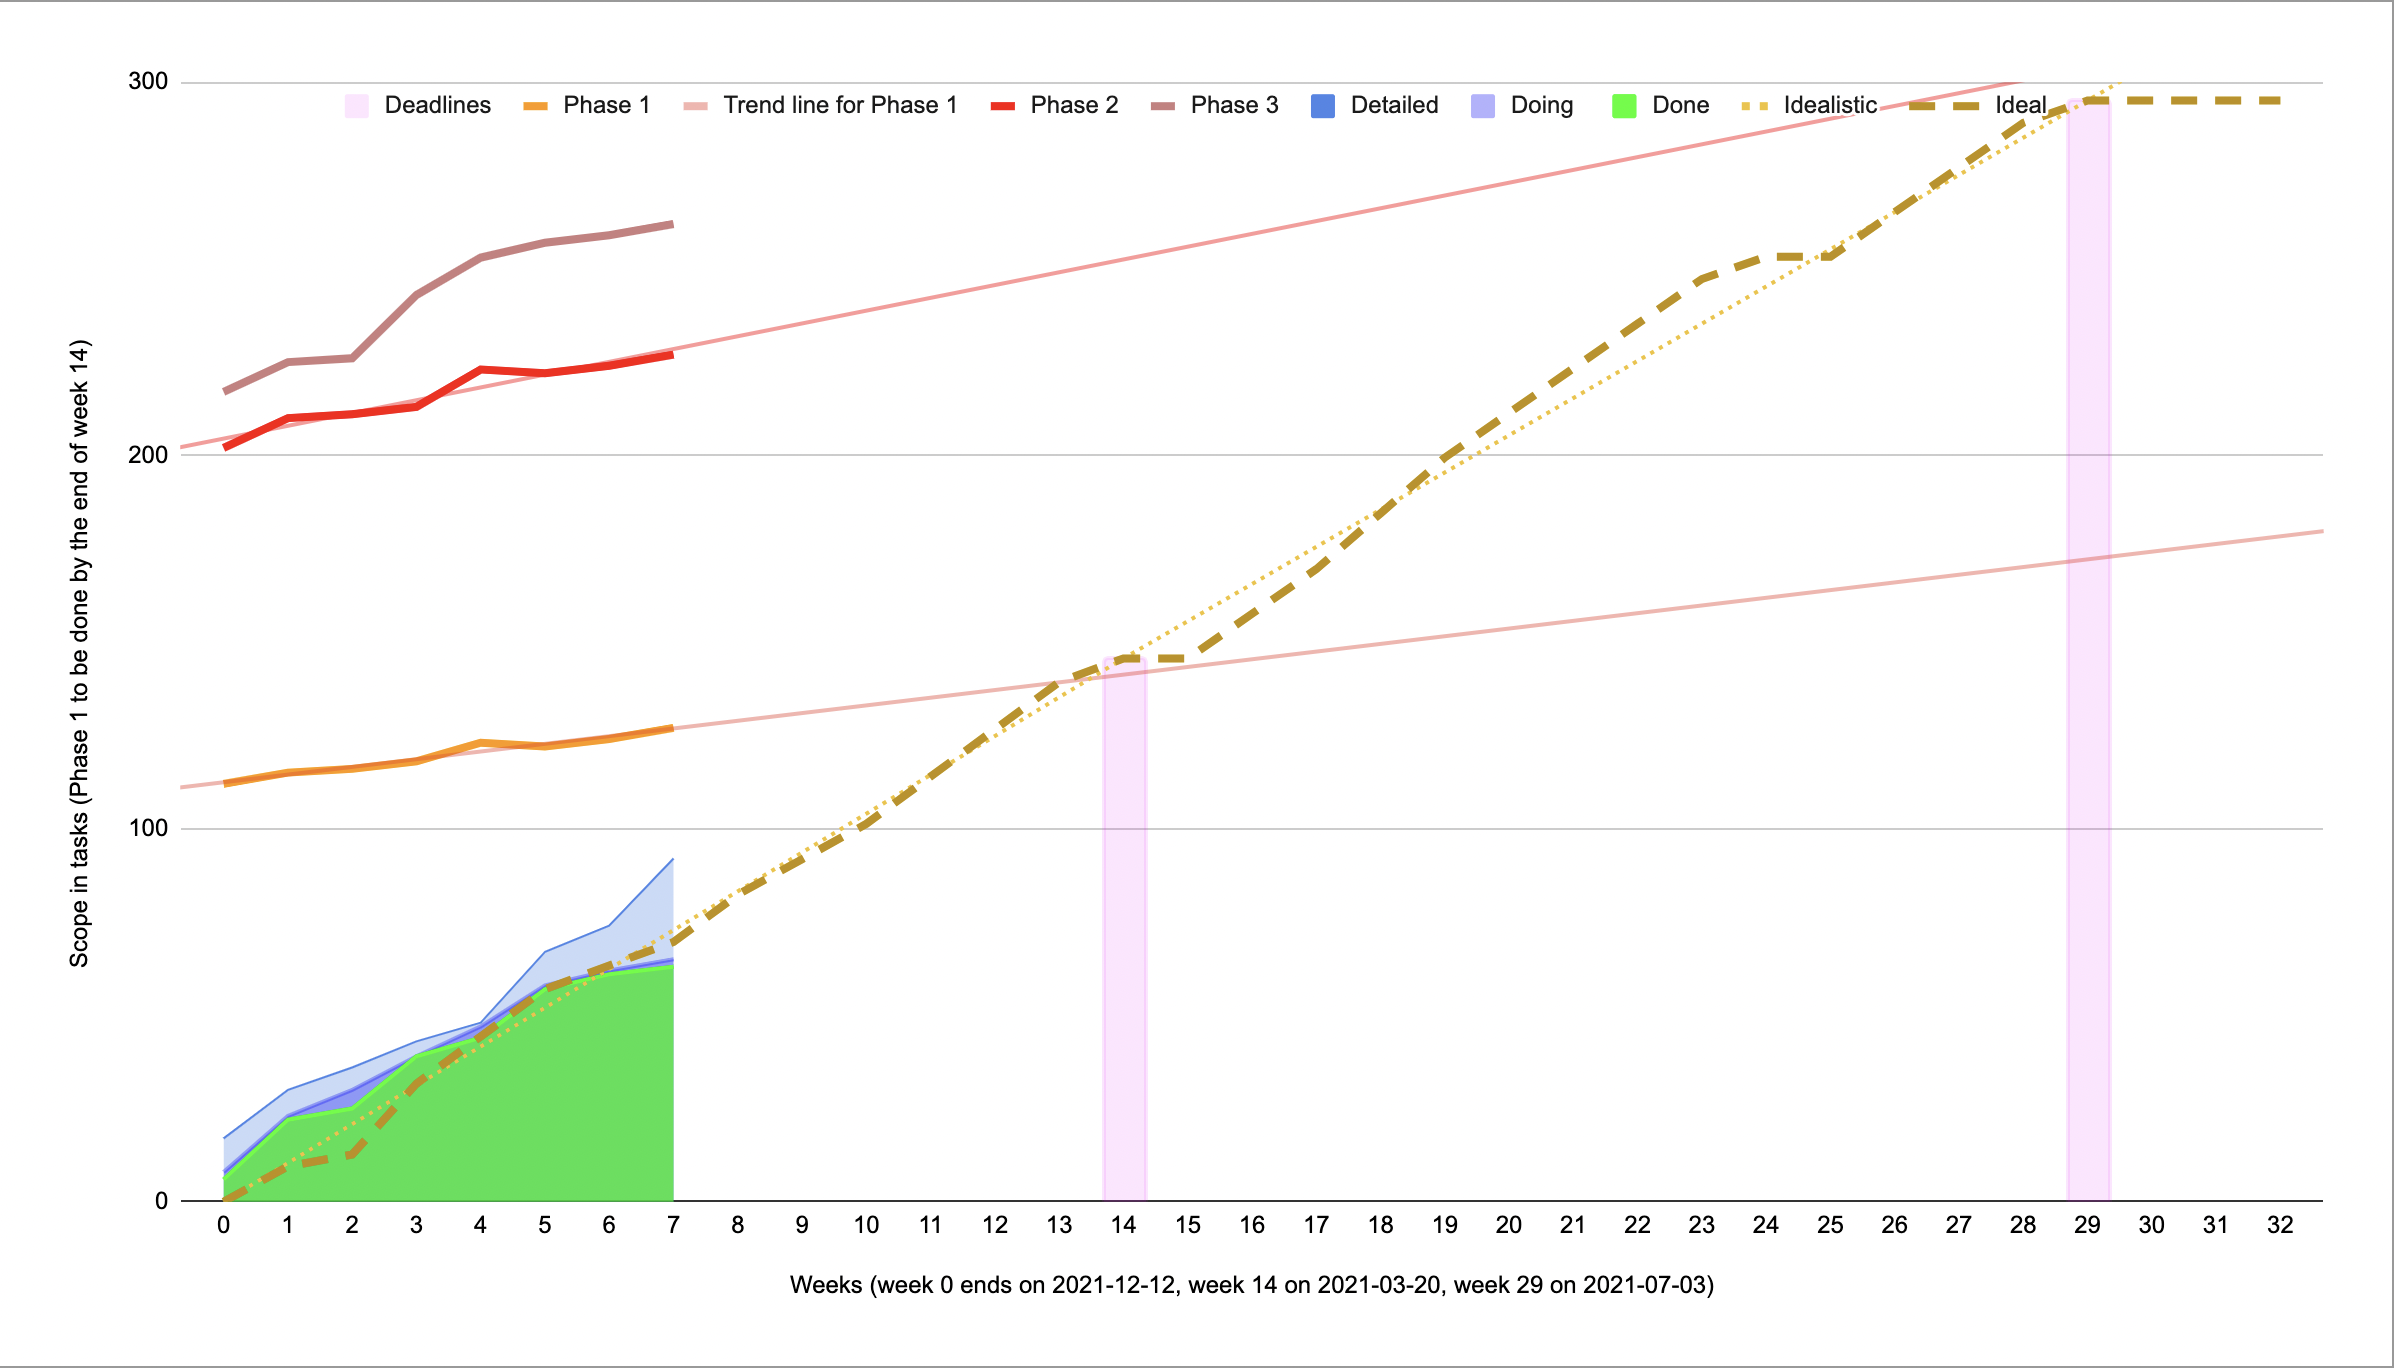
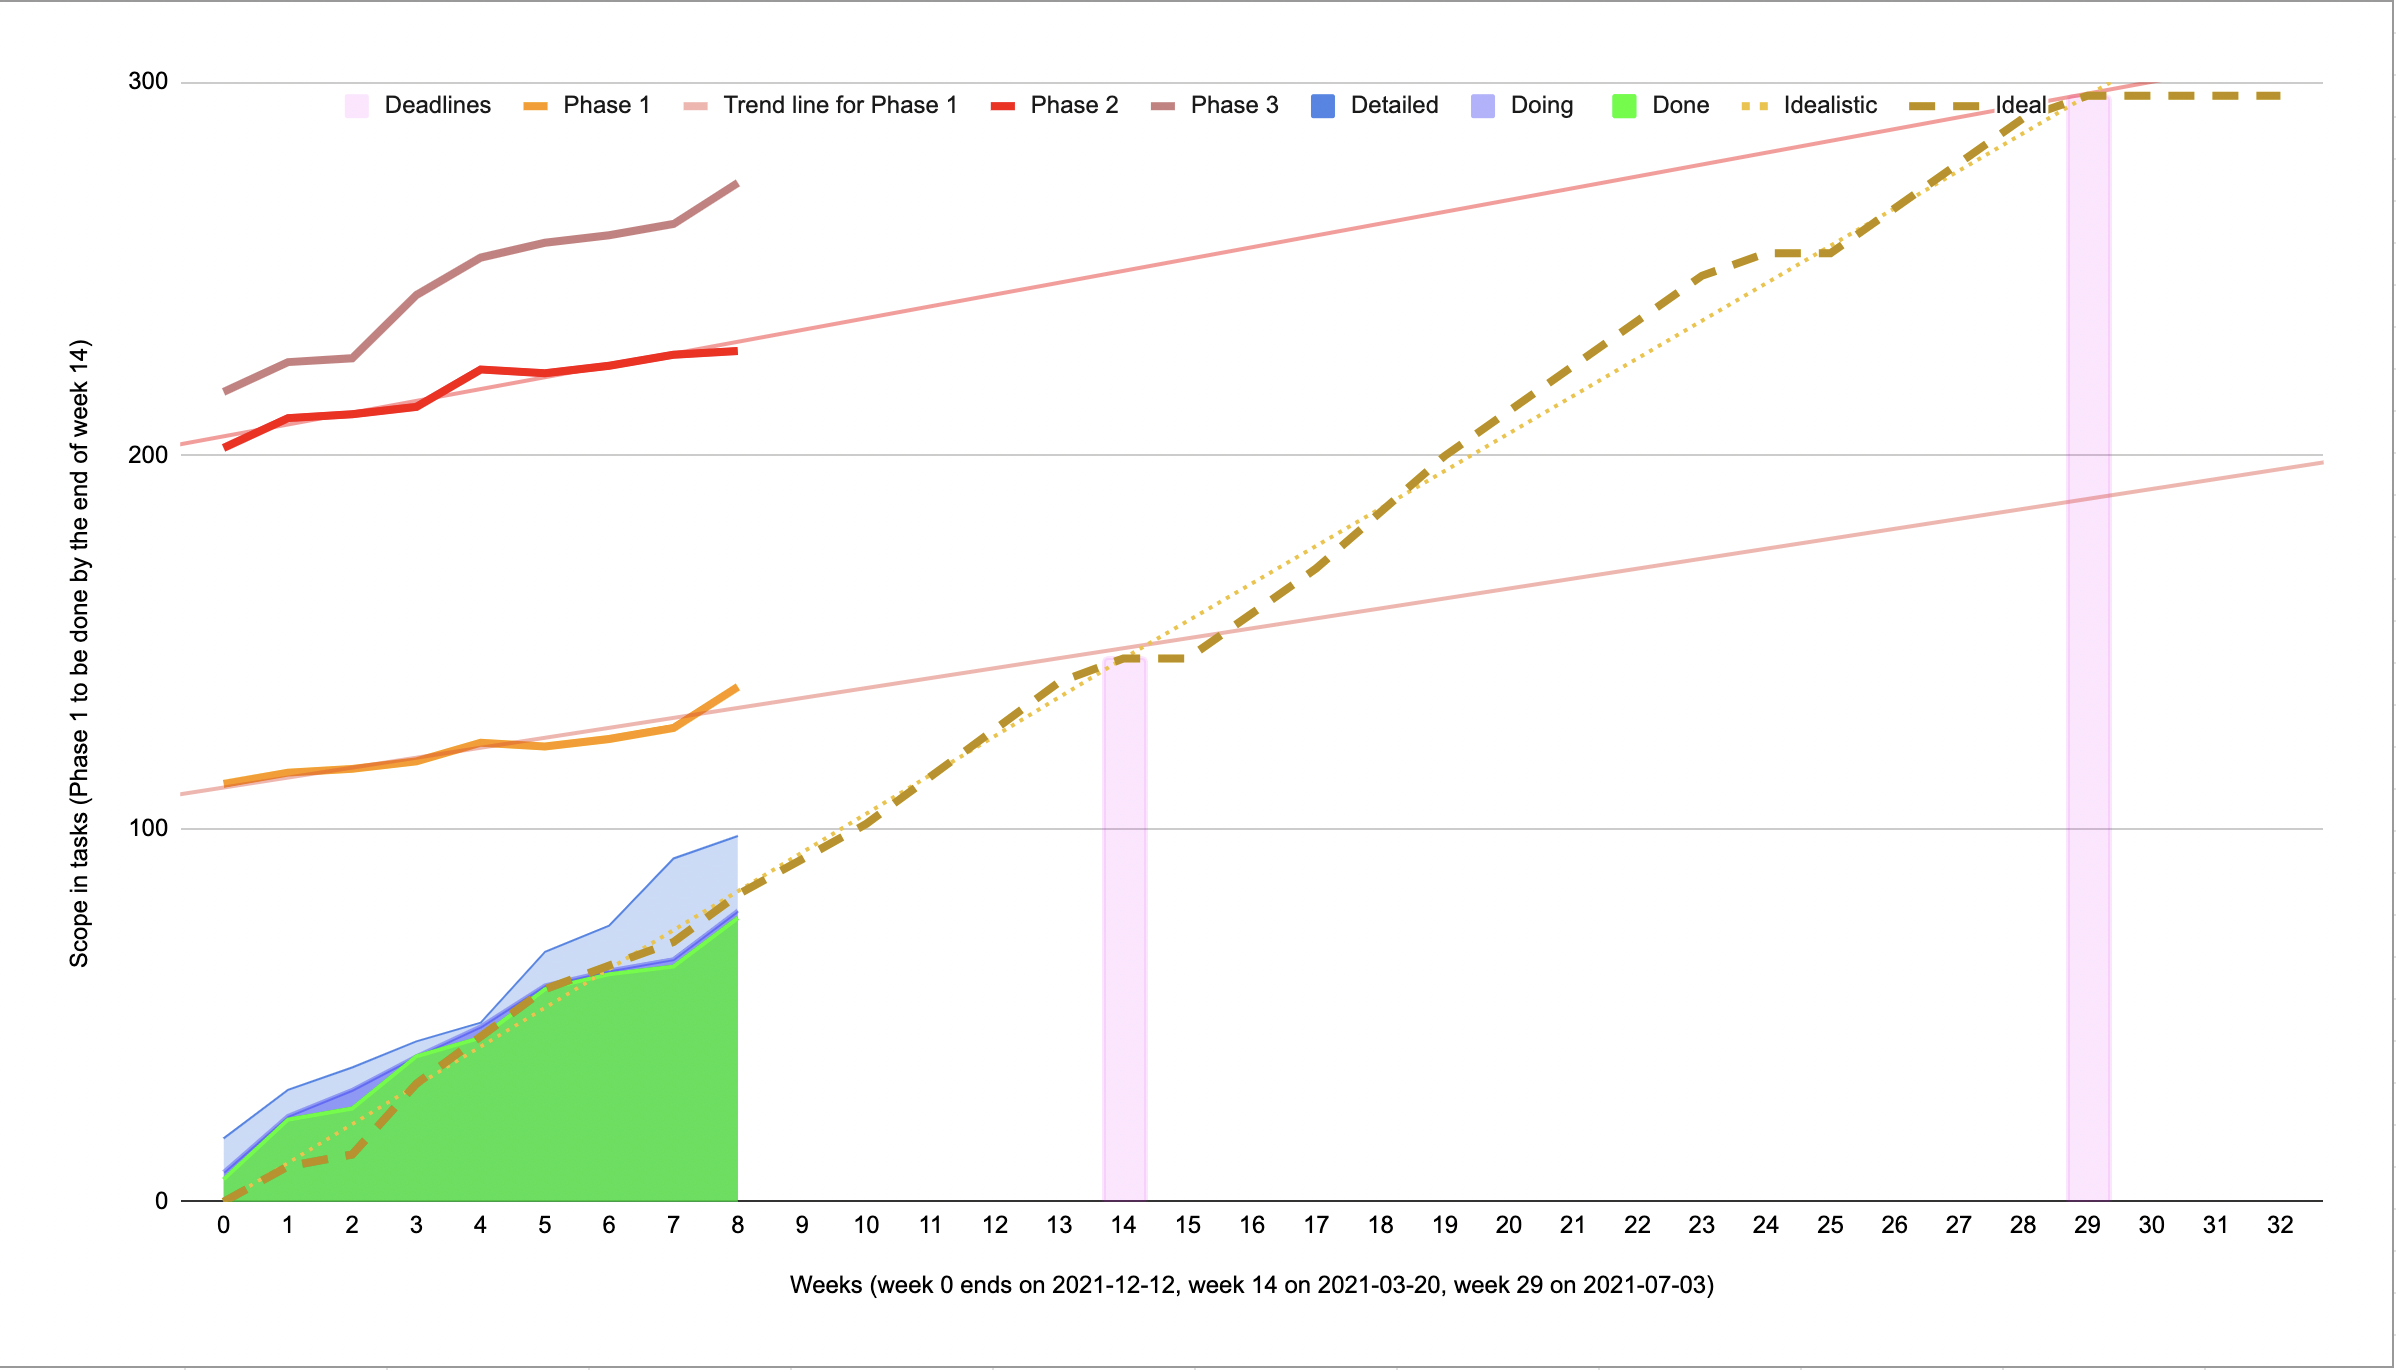
end of week 8 updates

diff --git a/docs/progress.md b/docs/progress.md
@@ -10,7 +10,7 @@ To monitor and control the progress of the project I'm using an approach based o
 
 ## Summary
 
-No more progress, too many distractions. But a number of bigger tasks became more obviou (shown by the raise of the blue line).
+Good progress with search federation and discussions internally and with other organisations.
 
 ## Project Details
 I have started the project on the 2021-12-09 and will have to finish by 2022-07-04. Phase 1 covers the first 14 weeks until the progress report, and Phase 2 covers the rest.

diff --git a/docs/log.md b/docs/log.md
@@ -107,3 +107,8 @@ Many more discussions both inside and outside of the organisation, but the only 
 Fission UCAN Check - a potentially interesting project dealing with
 distributed permissions by extending JWT. Interesting ideas on how to 
 pass on authorisation with a chain of proofs. Distributed identity(ION is another option)
+
+### Features completed: 
+
+* Simple search federation (without aggregation)
+* Open API considerations

diff --git a/docs/interactions.md b/docs/interactions.md
@@ -1,4 +1,4 @@
-# Interactions
+# Distributed Search - Interactions between systems
 
 I find it difficult to descrbie the possibilities of using the search topology
 as a context defining access, and perhaps scope of information available to searchers. 
